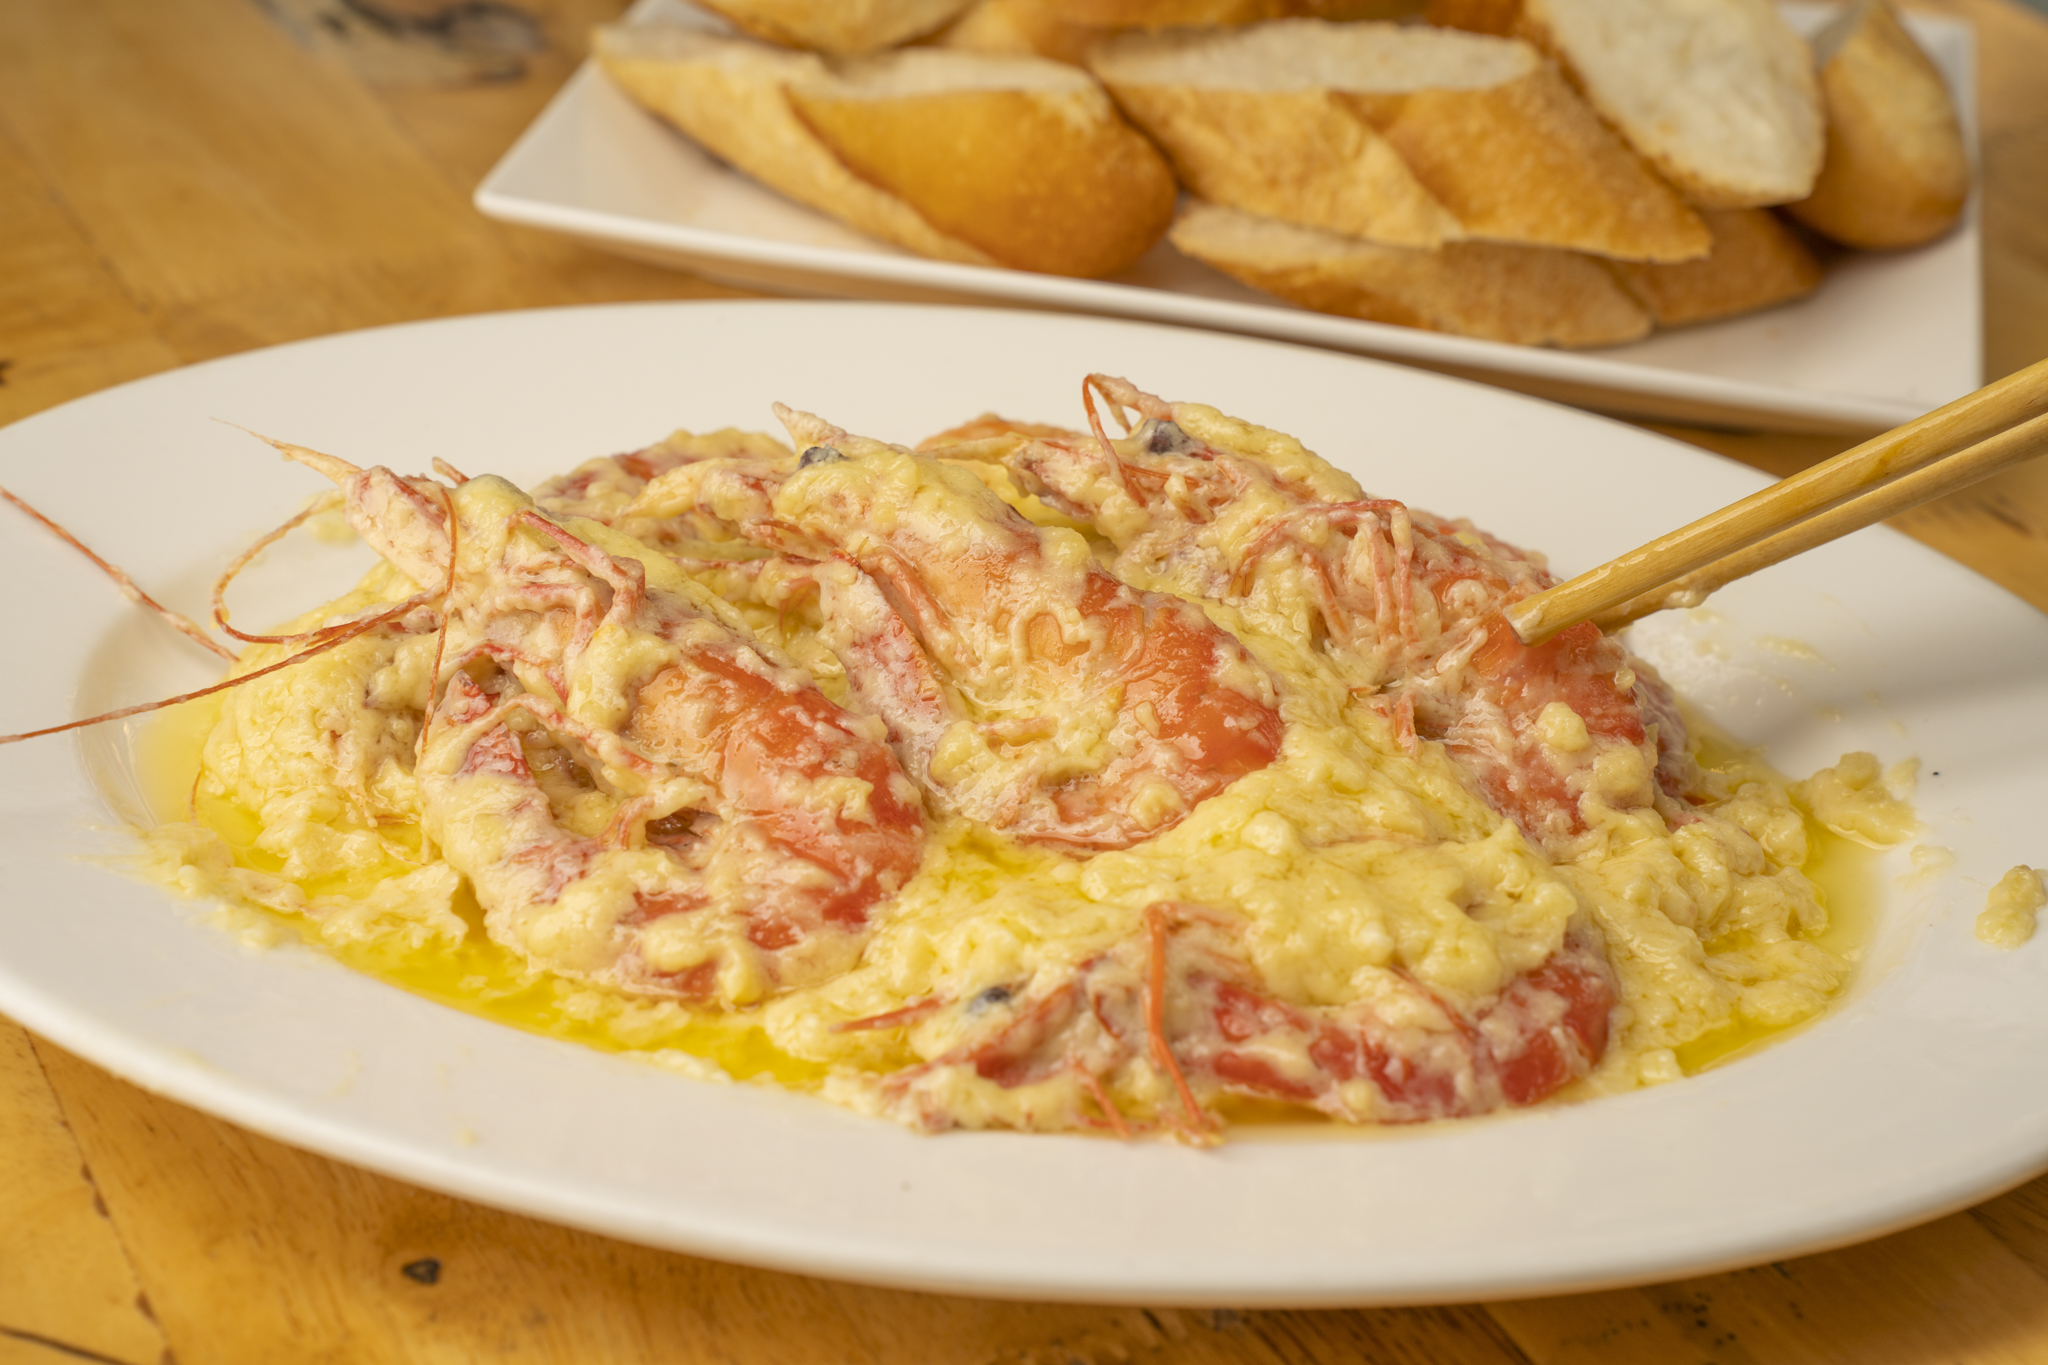
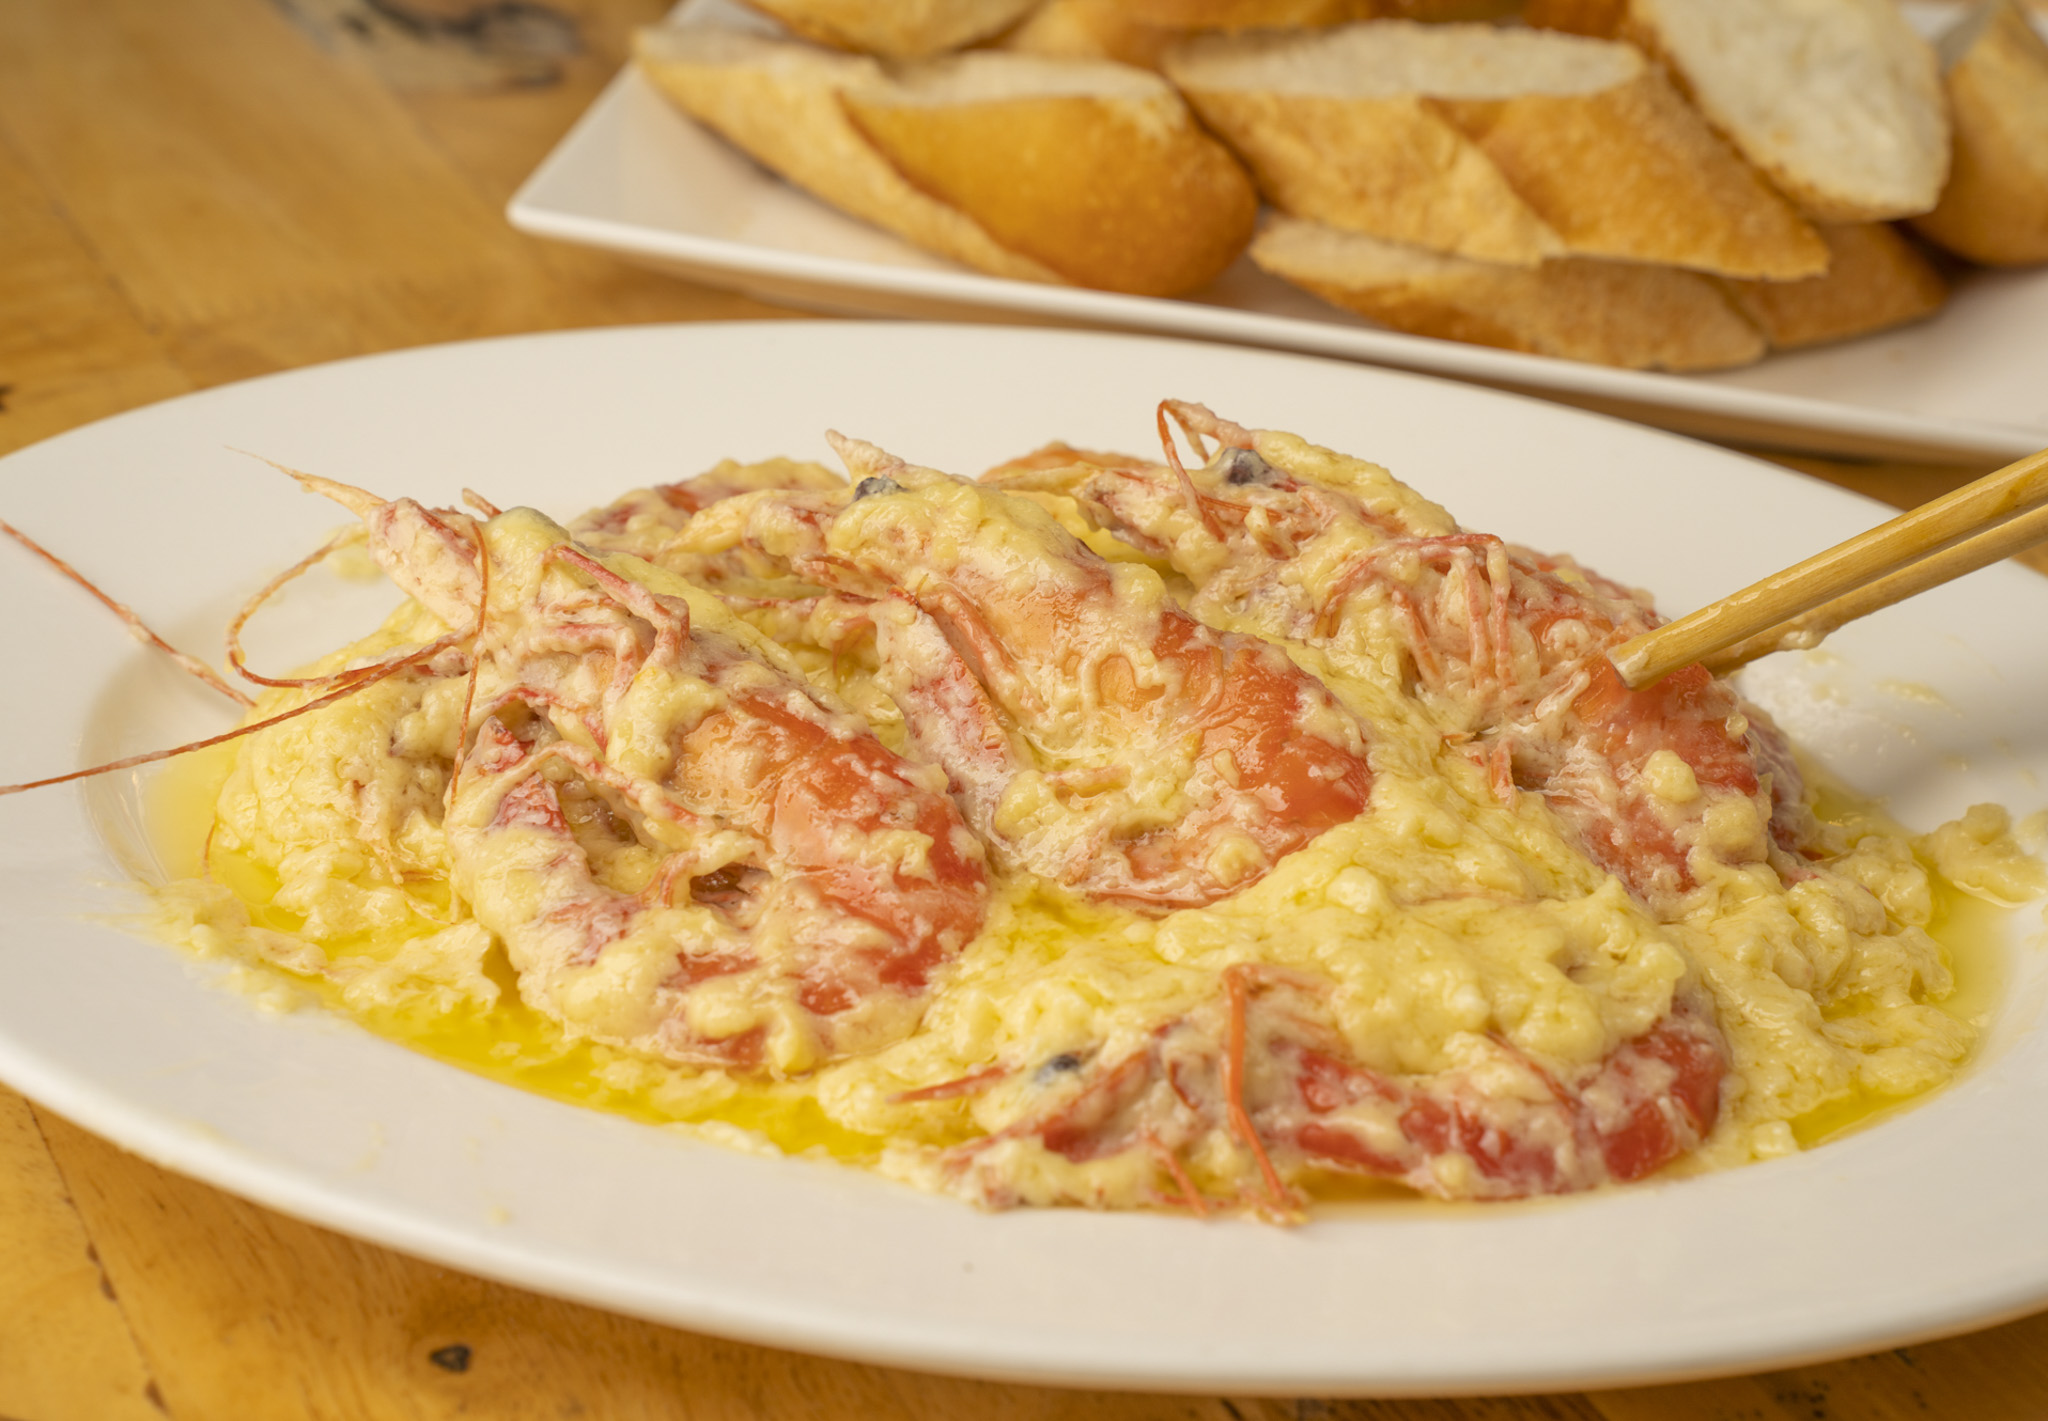
Update Post “2020-05-13-desk-for-minimalists”

diff --git a/src/content/posts/2020-05-13-desk-for-minimalists.md b/src/content/posts/2020-05-13-desk-for-minimalists.md
@@ -1,16 +1,16 @@
 ---
 template: blog-post
-title: Desk for minimalists
-slug: /minimalists-desk
-date: 2020-05-13 12:46
-description: sdasd
-featuredImage: /assets/dsc09778.jpg
+title: Tôm sốt bơ tỏi
+slug: /tom-sot-bo-toi
+date: 2023-04-23 15:37
+description: Hải Sản Bé Hạnh / 240 Khúc Hạo, Sơn Trà, Đà Nẵng
+featuredImage: /assets/dsc09773.jpg
 ---
 
 
 Nhà hàng Bé Hạnh là một trong những địa điểm ẩm thực nổi tiếng tại thành phố, và món tôm sốt bơ tỏi của nhà hàng đã trở thành một trong những món ăn được yêu thích bởi nhiều thực khách. Tôi đã có dịp thưởng thức món ăn này tại nhà hàng Bé Hạnh tại khu vực quận Sơn Trà, và dưới đây là bài review của tôi về món tôm sốt bơ tỏi tại nhà hàng Bé Hạnh.
 
-![](/assets/dsc09776.jpg)
+![](/assets/dsc09774.jpg)
 
 ## Hương vị đặc biệt  của món tôm sốt bơ tỏi
 
